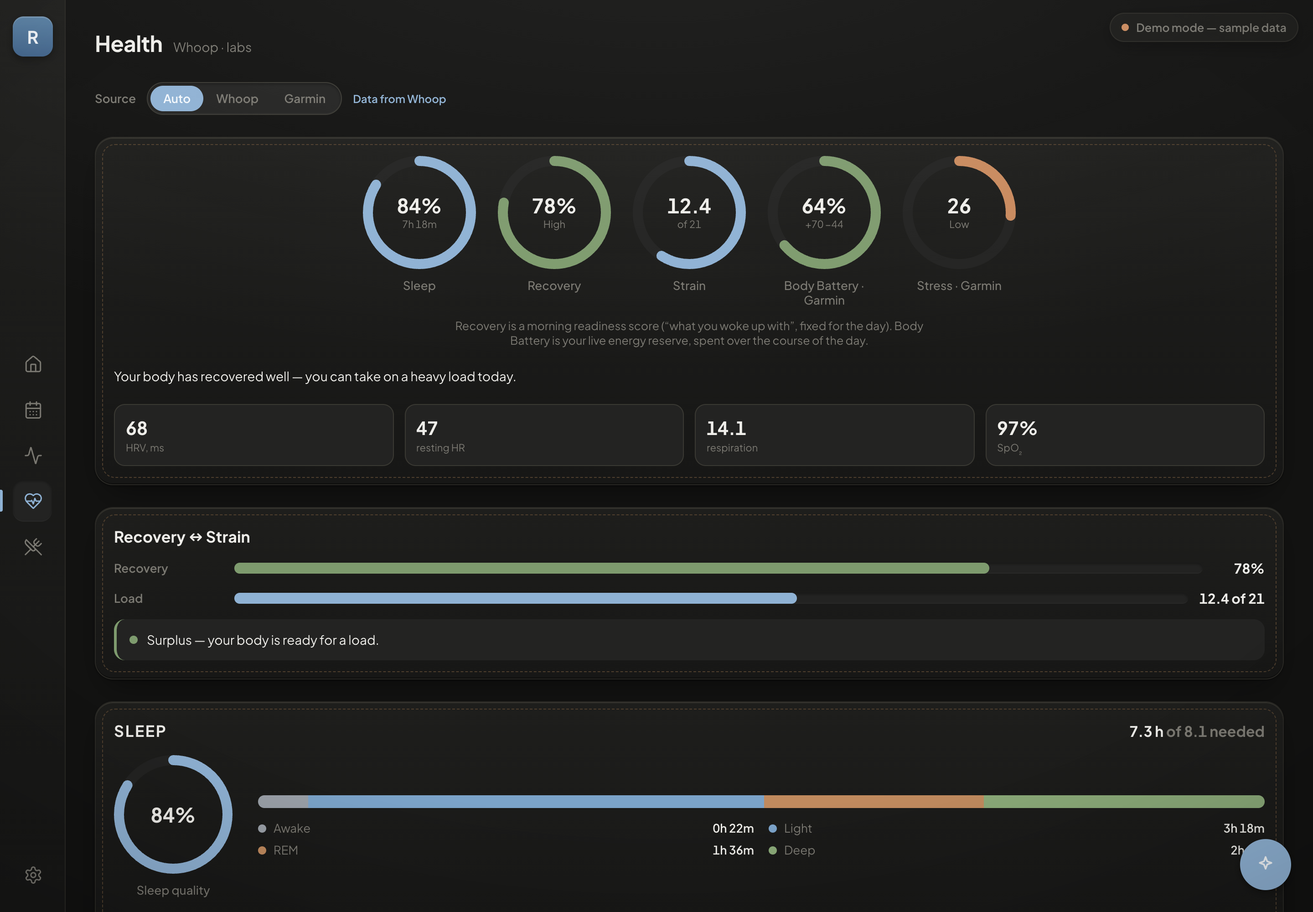
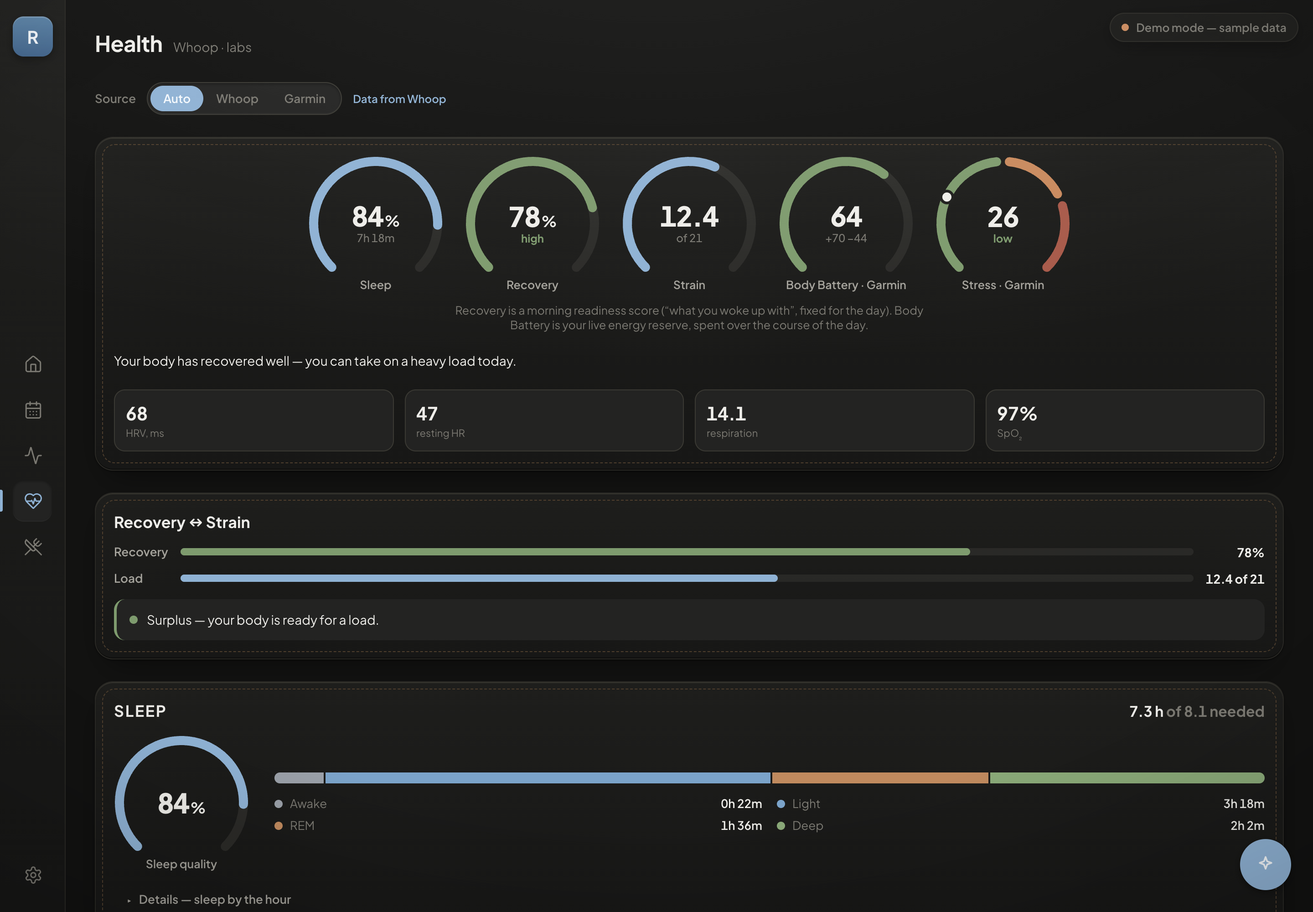
README and SECURITY.md: describe the app as it is now
SECURITY.md still described the single-owner version: an "Owner" role, a check
for req.role === 'owner' and one revocation epoch for everyone. It now matches
the code: member and guest only, per-account session epochs, per-account keys,
the KV-backed attempt limits, the AI system prompt kept server-side, and the
known gaps, including that there is no password change yet. It also records
the CodeQL triage: eight alerts fixed, four accepted and why.

README: one description of the project, an architecture diagram, a Tests
section, CI badges, and screenshots retaken with the new charts. The claim
that a reset flow is rate-limited is gone, because there is no reset flow.

.env.example documents AI_USER_DAILY_LIMIT.

diff --git a/SECURITY.md b/SECURITY.md
@@ -1,84 +1,117 @@
 # Security
 
-This is a single-owner personal dashboard with a public demo login, an AI agent that
-takes real actions (calendar, email), and OAuth-connected third-party accounts
-(Google, Whoop, Garmin). This document is a short threat model: who the actors are,
-what's protected, and what's explicitly out of scope for a project this size.
+RedLava is a small multi-account web app for a triathlon club: invite-only accounts, a public
+demo login, an AI assistant that takes real actions (calendar, email drafts), and OAuth
+connections to Google, WHOOP and Garmin. This document is a short threat model: who can do
+what, what protects each boundary, and what is knowingly left open.
 
 ## Actors
 
 | Actor | Access |
 |---|---|
-| **Owner** | Full access — real calendar, health data, lab results, AI assistant with tool use |
-| **Guest** | Demo-only login (`guest` / a password shown right on the sign-in screen and in the README, by design — it's a public demo). Never sees real data; every integration endpoint that would return or mutate real data is intercepted server-side before it reaches the real Google/Whoop/Garmin/Gmail APIs |
-| **AI agent (Claude)** | Runs with the owner's authority when the owner is signed in. Can create/move/delete calendar events and draft (never auto-send) emails. Its context includes data the owner didn't type themselves — calendar event titles, in principle third-party email content — which is a real prompt-injection surface (see below) |
-| **OAuth providers** (Google, Whoop, Garmin) | Hold the actual refresh tokens; the backend stores them in a KV store (Upstash Redis in prod, a local file in dev) |
+| **Member** | An ordinary account. Sees and changes only their own data and their own integrations. There is no privileged role. |
+| **Guest** | The public demo (`guest` / `123`, printed on the sign-in screen by design). Gets demo data only; never reaches a real integration. |
+| **AI agent** (Claude) | Acts for the signed-in member. Can create events directly; moving or deleting an event and sending an email need the member's tap. Reads data the member did not write — calendar invite titles, email bodies — which is a prompt-injection surface. |
+| **Outsider** | No account. Can register only with the invite code. |
+| **OAuth providers** | Issue the refresh tokens, which are stored per account in the KV store (Upstash Redis in production, a local file in development). |
 
-## What's in place
+## What is in place
 
-- **Auth**: signed JWTs (`backend/authGuard.js`), not a permanent shared secret. Short
-  session, silently renewed on every app open (`/api/auth/verify`) so an active user
-  never has to re-login, but an abandoned or stolen token expires. A revocation
-  "epoch" stored server-side lets the owner invalidate every outstanding token
-  instantly (`POST /api/auth/logout-all`, exposed as "Sign out everywhere" in
-  Settings → Connections) without changing the password.
-- **Login is rate-limited** per IP (`backend/routes/auth.js`) — a fixed-window
-  counter through the same shared KV store used elsewhere, so it works correctly
-  across serverless invocations (a plain in-memory counter would reset on every
-  cold start on Vercel).
-- **Guest isolation is enforced twice**: a path allowlist in `backend/app.js`
-  intercepts every integration endpoint for guest tokens before it reaches the
-  real route handler, *and* the handlers that perform account-level mutations
-  (`*/disconnect`) independently check `req.role === 'owner'`. Belt and suspenders
-  on purpose — an oversight in one list shouldn't be enough to expose real data or
-  let a guest disconnect the owner's real accounts. (An earlier version of this
-  project had exactly that gap: `*/disconnect` checked for *any* valid token, not
-  specifically the owner, and guest credentials are public. Fixed and covered by
-  the allowlist now.)
-- **Security headers**: `helmet` on the API (`backend/app.js`); a hand-built CSP,
-  HSTS, `X-Frame-Options: DENY`, `Referrer-Policy` and a `Permissions-Policy` on the
-  actual page (`vercel.json` → `headers`). The CSP has no `unsafe-inline` for
-  scripts — the two inline `<script>` blocks in `frontend/index.html` (theme applied
-  before first paint, orientation-lock message) are allow-listed by exact SHA-256
-  hash instead, so any injected inline script is blocked by the browser regardless
-  of where it came from.
-- **CORS** defaults to closed for any origin other than the site itself in
-  production; open origins require explicitly setting `ALLOWED_ORIGIN`.
-- **Prompt-injection mitigation for the AI agent** — two layers, since prompt-level
-  instructions alone are a soft control:
-  1. The system prompt (`backend/routes/ai.js`) explicitly tells the model that the
-     only source of commands is the owner's own message in the chat, and that text
-     found *inside* dashboard data (event titles, email bodies) is data to describe,
-     never an instruction to act on.
-  2. Destructive tool calls (`move_event`, `delete_event`) no longer execute
-     automatically. They're queued and require an explicit tap from the owner
-     (`ConfirmAiActionModal.jsx`) before anything real happens to the calendar —
-     the same pattern the assistant already used for `send_email` (draft +
-     human-confirmed send, never auto-sent). `create_event` still applies
-     immediately: additive and easily undone, not worth the extra friction.
+**Accounts and passwords** (`backend/users.js`, `backend/routes/auth.js`)
+- Passwords are hashed with bcrypt (bcryptjs, 10 rounds), at least 8 characters, at most
+  72 bytes — bcrypt ignores anything past that, so longer input is refused instead.
+- Usernames are unique regardless of case and surrounding spaces; creation runs under a KV
+  lock so two simultaneous sign-ups cannot claim the same name.
+- Registration requires `REGISTRATION_CODE`, compared in constant time.
 
-## Known limitations / accepted risk
+**Sessions** (`backend/authGuard.js`)
+- HS256 JWTs with the algorithm pinned on verification, a 30-day lifetime, renewed each time
+  the app opens.
+- Every account has its own session epoch, carried in its tokens. "Sign out other devices"
+  bumps that account's epoch: its older tokens stop working, the device that pressed the button
+  gets a fresh token, and nobody else is affected. The cost is one key read per request.
+- A token's role must match its shape: a `user` token must carry an account id, a `guest`
+  token must not.
 
-- The session token lives in `localStorage`, not an `httpOnly` cookie — readable by
-  any script that runs on the page. Given the app has no `dangerouslySetInnerHTML`
-  anywhere today, there's no known XSS vector, but this is a real residual risk if
-  one is ever introduced (e.g. rendering AI-fetched web content as HTML). Moving to
-  an `httpOnly` cookie is the correct long-term fix; not done yet because it
-  changes the request model for a single-page app talking to a serverless function
-  on the same origin, and wasn't worth rushing alongside everything else here.
-- No 2FA on the owner login yet. Single factor (password) protected by the rate
-  limiter above.
-- `npm audit` is clean on `backend/` and the repo root; `frontend/` has one
-  remaining moderate advisory in `react-router-dom` (open redirect / SSR
-  hydration) with a fix only available via a major-version bump (v6 → v7), which
-  is an API-breaking change across the whole router — deliberately not rushed in
-  alongside a security pass. Tracked, not forgotten.
-- Garmin credentials are submitted directly to this backend (no OAuth is offered
-  by Garmin Connect for personal accounts) and forwarded over TLS; they are not
-  stored by this app beyond the session token Garmin itself issues.
+**Isolation between accounts**
+- Every stored key carries its owner's id (`backend/userScope.js`), so one account's data
+  cannot be addressed from another. The browser tests check this directly.
+- Requests from the guest to integration endpoints are answered with demo data in
+  `backend/app.js`, before they reach a real handler.
+
+**Brute force** (`backend/rateLimit.js`) — fixed-window counters per IP in the shared KV store,
+because in-memory counters reset on every serverless cold start:
+- sign-in: 8 failed attempts per 15 minutes;
+- registration: 30 per 15 minutes (the invite code is the real gate);
+- Garmin connect: 6 failed attempts per 15 minutes. It forwards a username and password to
+  Garmin, so without a cap the server could be used to try passwords against other people's
+  Garmin accounts.
+
+**OAuth** — a random state per flow, bound to the account that started it and deleted on use.
+
+**Input that reaches outbound URLs** — calendar event ids are checked against Google's id
+format and URL-encoded before they become part of a Google API path.
+
+**Headers** (`vercel.json`, `backend/app.js`)
+- The page has a CSP with no `unsafe-inline` for scripts: its two inline scripts are allowed
+  by SHA-256 hash. Also HSTS (two years), `X-Frame-Options: DENY`, `nosniff`,
+  `Referrer-Policy` and a `Permissions-Policy`.
+- The API uses helmet's defaults, CSP included.
+- CORS is closed to other origins unless `ALLOWED_ORIGIN` is set.
+
+**The AI agent** (`backend/routes/ai.js`)
+- The system prompt is the server's alone. The dashboard snapshot and the page's task arrive
+  in the first user message, in fenced blocks that the rules describe as data, not
+  instructions. The snapshot used to sit in the system prompt, next to the rules.
+- The rules state that commands come only from what the member wrote, never from text inside
+  the data.
+- Moving or deleting an event needs a human tap (`ConfirmAiActionModal.jsx`); an email is
+  only ever a draft the member sends.
+- Cost limits: messages up to 4,000 characters; a per-instance fuse of 60 requests a minute,
+  300 an hour and 1,000 a day; a daily allowance of 15 requests per guest device and
+  150 per account (`AI_USER_DAILY_LIMIT`), kept in KV.
+
+**Pipeline** — every push runs CodeQL, a gitleaks secret scan over the full history and
+ESLint. Dependabot watches dependencies (major bumps are reviewed by hand). `npm test` runs
+11 browser tests, including cross-account isolation and session revocation.
+
+## Known limitations
+
+- **No password change or reset yet.** "Sign out other devices" ends existing sessions, but
+  it cannot lock out someone who knows the password. A change-password endpoint that also
+  bumps the session epoch is the next thing to add.
+- **No second factor.**
+- **The session token is in `localStorage`**, readable by any script on the page. There is no
+  `dangerouslySetInnerHTML` in the app and the CSP blocks injected inline scripts, but an
+  `httpOnly` cookie would remove the exposure.
+- **Much of the data is held in the browser.** The schedule, nutrition profile and similar
+  data live in `localStorage` and in a per-account synced copy on the server, so they share
+  the token's exposure. This is also why CodeQL's clear-text-storage finding is accepted below.
+- **The per-minute/hour/day AI fuse is in memory**, per serverless instance: a cost fuse, not
+  a hard global cap. The daily allowances in KV are the durable limit.
+- **OAuth state entries don't expire** if a flow is abandoned half-way. They are single-use
+  and bound to an account, so this is clutter rather than a bypass.
+- **`react-router-dom` v6** has two moderate advisories fixed only in v7, a breaking upgrade.
+  One concerns server-side rendering, which the app does not use; the other is an open
+  redirect through `<Link>` / `navigate()`. The upgrade is planned.
+- **Garmin credentials** pass through the backend to Garmin over TLS, because Garmin offers no
+  OAuth for personal accounts. Only the session token Garmin returns is stored.
+
+## Static analysis: findings reviewed and accepted
+
+The first CodeQL run on this code raised 12 alerts. Eight were fixed in code: path injection
+through calendar event ids (two), client-controlled text in the AI system prompt (three), two
+regular expressions with quadratic backtracking, and the disabled API CSP. Garmin connect
+really had no limit and now has one, though CodeQL cannot see it. Four alerts remain and are
+accepted:
+
+| Rule | Where | Why it stays |
+|---|---|---|
+| `js/missing-rate-limiting` | `auth.js` sign-in, `garmin.js` connect | Both are limited by the KV counters in `rateLimit.js`. CodeQL only recognises known middleware packages, which keep their counts in memory and so would not work on serverless. |
+| `js/cors-permissive-configuration` | `app.js` | CORS is open only with `LOCAL_DEV=1`, for the Vite dev server on another port. In production it is closed. |
+| `js/clear-text-storage-of-sensitive-data` | `utils/nutrition.js` | The nutrition profile lives in the browser like the rest of the client-held data; see Known limitations. |
 
 ## Reporting
 
-This is a personal project, not a maintained public service — if you find
-something, open an issue or reach out directly rather than filing through a formal
-disclosure program.
+This is a personal project, not a maintained service. If you find something, open an issue or
+reach out through the contact on my GitHub profile.

diff --git a/README.md b/README.md
@@ -1,19 +1,27 @@
 # RedLava
 
-A personal training and health dashboard for endurance athletes. Training data from **Garmin** and **WHOOP**, calendar from **Google**, and blood work parsed straight out of uploaded PDFs — all in one place, with an AI assistant that *acts* (creates calendar events, drafts emails, remembers facts about you) rather than just summarising.
+[![CodeQL](https://github.com/Samitovamir/RedLava/actions/workflows/codeql.yml/badge.svg)](https://github.com/Samitovamir/RedLava/actions/workflows/codeql.yml)
+[![Secret scan](https://github.com/Samitovamir/RedLava/actions/workflows/gitleaks.yml/badge.svg)](https://github.com/Samitovamir/RedLava/actions/workflows/gitleaks.yml)
+[![Lint](https://github.com/Samitovamir/RedLava/actions/workflows/lint.yml/badge.svg)](https://github.com/Samitovamir/RedLava/actions/workflows/lint.yml)
 
-**Live demo:** https://saa-website-omega.vercel.app — sign in as `guest` / `123` to browse a full demo with sample data.
+A training and health dashboard for a triathlon club. Garmin, WHOOP, Google Calendar and
+blood tests in one place, with an AI assistant that works from the athlete's own data and can
+act on it: create calendar events, draft emails, remember facts.
 
-> Built for a real user (an amateur triathlete) who was checking four different apps every morning. It has been in daily use since June 2026.
+**Live demo:** https://saa-website-omega.vercel.app — sign in as `guest` / `123` to browse
+sample data.
 
-![Home — the Status card reads every domain at once](docs/home.png)
+> Built for a real user, an amateur triathlete who was checking four different apps every
+> morning. It has been in daily use since June 2026 and now has accounts for the club.
+
+![Home — the Status card reads every area at once](docs/home.png)
 
 <p align="center">
-  <img src="docs/health.png" width="58%" alt="Health — blood tests parsed from PDFs, tracked over time" />
+  <img src="docs/health.png" width="58%" alt="Health — recovery, sleep and blood tests" />
   <img src="docs/sport-mobile.png" width="20%" alt="Sport on a phone" />
 </p>
 
-<sup>Screenshots are the guest demo (`guest` / `123`) — sample data, not anyone's real health records.</sup>
+<sup>Screenshots show the guest demo: sample data, not anyone's real health records.</sup>
 
 ---
 
@@ -21,65 +29,111 @@ A personal training and health dashboard for endurance athletes. Training data f
 
 | Area | What's there |
 |---|---|
-| **Status** | One card that reads every domain at once — stress, schedule load, training readiness, recovery-vs-strain, nutrition — each with a personal AI recommendation and a deterministic fallback when the AI is unavailable |
-| **Schedule** | Google Calendar two-way sync; the assistant can create, move and delete events |
-| **Sport** | Garmin Connect: workouts with per-kilometre splits, GPS track, HR/elevation/power charts; training status, load (ACWR), HRV, race predictions, lactate threshold |
-| **Health** | WHOOP recovery/sleep/strain; blood tests uploaded as PDF or photo are parsed by Claude vision into ~76 known markers, tracked over time with reference ranges and trends |
-| **Nutrition** | Photo food diary, barcode scanning (Open Food Facts), calorie/macro targets, FODMAP flagging |
-| **Assistant** | Claude with tool use — 8 real tools (`create_event`, `send_email`, `remember_fact`, `route_eta`, …). It builds a snapshot of the whole dashboard as context, so answers are grounded in the user's actual data |
+| **Status** | One card that reads every area at once: stress, schedule load, training readiness, plan vs actual, recovery vs strain, nutrition. Each has a personal AI recommendation and a plain fallback when the AI is unavailable. |
+| **Schedule** | Two-way Google Calendar sync. The assistant can create, move and delete events. |
+| **Sport** | Garmin Connect: workouts with per-kilometre splits, GPS track, heart-rate, elevation and power charts; training status, load (ACWR), HRV, race predictions, lactate threshold. |
+| **Health** | WHOOP recovery, sleep and strain. Blood tests uploaded as PDF or photo are read by Claude vision into ~76 known markers and tracked over time against reference ranges. |
+| **Nutrition** | Photo food diary, barcode scanning (Open Food Facts), calorie and macro targets from a short survey, FODMAP flags. |
+| **Assistant** | Claude with tool use: eight real tools (`create_event`, `send_email`, `remember_fact`, `route_eta`, …). It works from a snapshot of the member's whole dashboard, so answers rest on their actual data. |
 
 ## Architecture
 
+```mermaid
+flowchart LR
+  B["Browser<br/>React SPA · localStorage"] -- "/api/* with a JWT" --> A["Vercel<br/>Express API · one serverless function"]
+  B --> OFF["Open Food Facts"]
+  A <--> KV[("Upstash Redis<br/>accounts · sessions · tokens")]
+  A --> C["Claude API<br/>assistant · lab parsing"]
+  A --> G["Google Calendar & Gmail · OAuth"]
+  A --> W["WHOOP · OAuth"]
+  A --> GC["Garmin Connect"]
+  A --> YD["Yandex.Disk · lab PDFs"]
+```
+
 ```
 frontend/  React 18 + Vite SPA
-  ├─ shells/     alternative layout over the same data ("command center"; default is classic)
-  ├─ components/ presentational + gauge widgets (all SVG, no chart library)
+  ├─ ui/         design-system primitives, including the one chart kit (Gauge, Meters, RangeBar)
+  ├─ components/ screens' building blocks
   ├─ context/    events, history, memory, language
-  └─ utils/      domain logic kept out of components (labs, nutrition, whoop, daySignal)
+  └─ utils/      domain logic kept out of components (labs, nutrition, whoop, scales)
 
 backend/   Express, deployed as a single Vercel serverless function (api/index.js)
-  └─ routes/     one module per integration: calendar, gmail, garmin, whoop, labs,
-                 nutrition, sync, history, ai, auth
+  ├─ routes/     one module per integration: calendar, gmail, garmin, whoop, labs,
+  │              nutrition, sync, history, ai, auth
+  └─ authGuard.js, userScope.js, rateLimit.js — sessions, per-account keys, attempt limits
+
+tests/     Puppeteer browser tests against a throwaway copy of the app
 ```
 
 **Notable bits**
 
-- **Token rotation under concurrency.** WHOOP issues single-use refresh tokens. Parallel serverless invocations racing to refresh would invalidate each other, so refreshes are serialised behind a KV lock and the new token pair is written in one fenced operation.
-- **Google OAuth in "Testing" mode expires refresh tokens every 7 days.** The backend detects `invalid_grant`, marks the token dead instead of retrying forever, and surfaces a reconnect banner.
-- **Revocable stateless sessions.** A JWT cannot normally be taken back — a stolen one works until it expires. Each token therefore carries a session epoch that is kept per account, so "sign out my other devices" invalidates one person's tokens and nobody else's, at the cost of a single key read per request. See [Security](#security).
-- **AI cost guard**: per-minute/hour/day request limits and a message size cap, since one dashboard load fans out to ~10–15 AI cards.
-- **Design system**: four themes driven entirely by CSS custom properties; components never hardcode a colour.
-- **Bilingual** (EN/RU): first visit follows the browser locale, then the choice is remembered.
+- **Token rotation under concurrency.** WHOOP issues single-use refresh tokens. Parallel
+  serverless invocations racing to refresh would invalidate each other, so refreshes are
+  serialised behind a KV lock and the new pair is written in one fenced operation.
+- **Revocable stateless sessions.** A JWT normally can't be taken back. Each token carries a
+  per-account session epoch, so "sign out my other devices" ends one person's sessions and
+  nobody else's, for the price of one key read per request.
+- **The AI's system prompt is the server's alone.** Dashboard data, which includes text other
+  people wrote (calendar invites, emails), reaches the model as labelled data in the user turn,
+  and moving or deleting events needs a human tap.
+- **Google OAuth in "Testing" mode expires refresh tokens every 7 days.** The backend detects
+  `invalid_grant`, marks the token dead instead of retrying forever, and shows a reconnect banner.
+- **AI cost guard.** One dashboard load fans out to 10–15 AI cards, so there are request-rate
+  fuses, a message size cap and daily allowances per guest device and per account.
+- **Design system.** Themes are driven entirely by CSS custom properties (four on desktop, a
+  light and a dark one on phones); components never hard-code a colour, and every chart goes
+  through the same three components.
+- **Bilingual (EN/RU).** The first visit follows the browser locale; the server answers in the
+  same language.
 
 ## Security
 
-Auth is signed, short-lived JWTs with a per-account revocation epoch; passwords are
-bcrypt-hashed; every stored key carries its owner's id, so accounts cannot read each
-other's data. CSP is served with SHA-256 hashes of the two inline scripts (no
-`unsafe-inline` for `script-src`), OAuth callbacks are protected by single-use state,
-and login, registration and the reset flow are rate-limited in the KV store. The
-assistant's system prompt states an instruction hierarchy so text inside the user's own
-data cannot act as a command, and destructive tool calls need a human confirmation.
+Passwords are bcrypt-hashed and registration is invite-only. Sessions are signed, pinned-algorithm
+JWTs with a per-account revocation epoch, and every stored key carries its owner's id, so one
+account cannot reach another's data. Sign-in, registration and Garmin connect are rate-limited
+through the KV store, which works across serverless instances. The page is served with a CSP
+that allows its two inline scripts by SHA-256 hash, with no `unsafe-inline`.
 
-Every push runs **CodeQL** and a **gitleaks** secret scan over the full history;
-Dependabot watches dependencies with major bumps deliberately ignored. The threat model,
-and the risks knowingly accepted, are written down in [SECURITY.md](SECURITY.md).
+Every push runs **CodeQL**, a **gitleaks** scan over the full history and **ESLint**. The first
+CodeQL run found 12 alerts: eight were fixed (among them a path injection into Google Calendar
+URLs and client text reaching the AI system prompt) and four are accepted with reasons.
+The threat model, the accepted risks and that triage are in [SECURITY.md](SECURITY.md).
 
 ## Stack
 
-React 18 · Vite · React Router · Framer Motion · Express · Vercel serverless · Claude API (`@anthropic-ai/sdk`) · Google Calendar & Gmail APIs · Garmin Connect · WHOOP API · Yandex.Disk
+React 18 · Vite · React Router · Framer Motion · Express · Vercel serverless · Upstash Redis ·
+Claude API (`@anthropic-ai/sdk`) · Google Calendar & Gmail APIs · Garmin Connect · WHOOP API ·
+Yandex.Disk · Puppeteer · ESLint
 
 ## Running locally
 
 ```bash
-cp .env.example .env        # fill in the keys you need; .env is gitignored
-
+cp .env.example .env         # at least JWT_SECRET (openssl rand -base64 48); .env is gitignored
+npm install                  # root: tests and lint
 cd backend  && npm install && npm run dev    # http://localhost:3001
 cd frontend && npm install && npm run dev    # http://localhost:5173
 ```
 
-The frontend proxies `/api/*` to the backend in dev. Without an `ANTHROPIC_API_KEY` everything still renders — AI cards fall back to deterministic text.
+`./start.sh` starts both. The frontend proxies `/api/*` to the backend in dev. Without an
+`ANTHROPIC_API_KEY` everything still renders; the AI cards fall back to plain text. The guest
+login works locally too (`guest` / `123` by default).
+
+## Tests
+
+```bash
+npm test        # 11 browser tests, ~1.5 minutes
+npm run lint
+```
+
+`npm test` starts its own copy of the backend and frontend on separate ports, with an empty
+store and a random signing secret, so it never touches your data and needs no API keys. It
+checks that every screen renders without console errors in both languages, that one account
+cannot read another's data, that "sign out other devices" only affects its own account, and
+the sign-up edge cases (duplicate names in any case, out-of-range survey values).
 
 ## Notes
 
-Blood-test marker names are stored in Russian because they double as the matching keys when parsing Russian lab PDFs; English display names sit alongside them (`nameEn`) and are used by the English UI.
+- Blood-test marker names are stored in Russian because they double as matching keys when
+  parsing Russian lab PDFs; English display names sit alongside them (`nameEn`).
+- The AI prompts are written in Russian on purpose: the club is Russian-speaking and they steer
+  the model rather than being shown to anyone. The reply language follows the interface.
